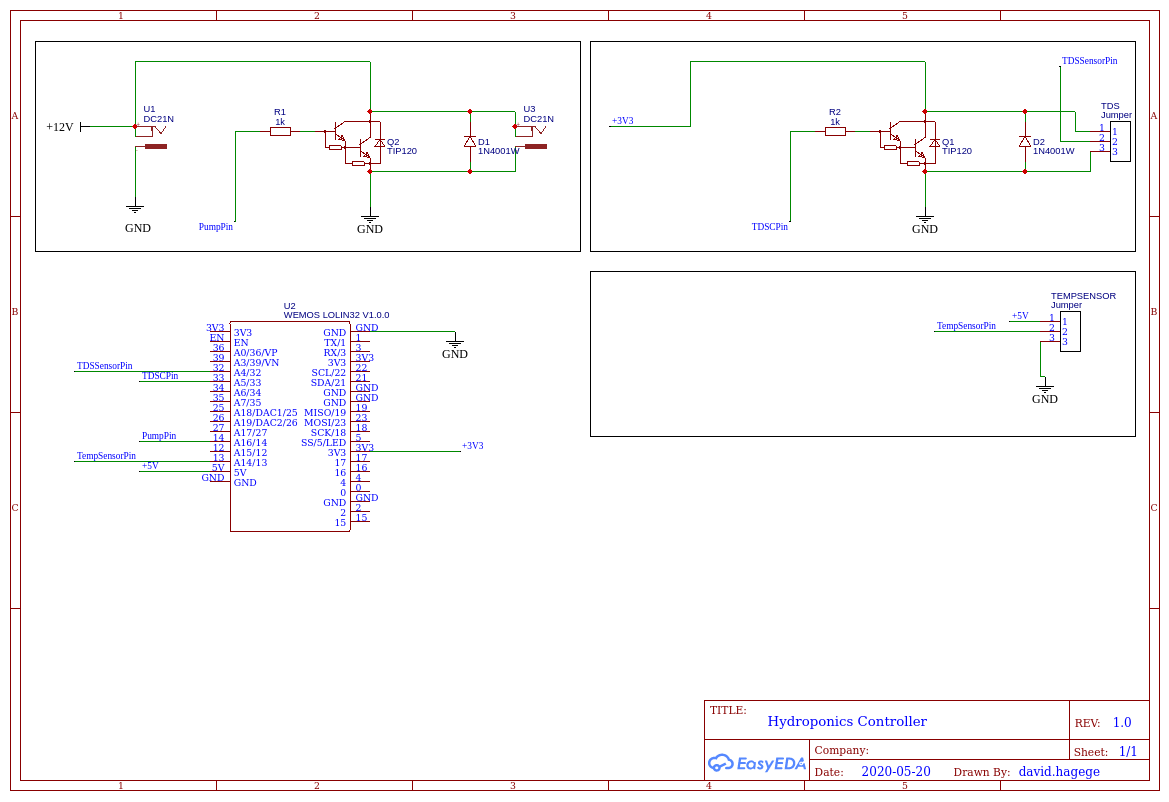
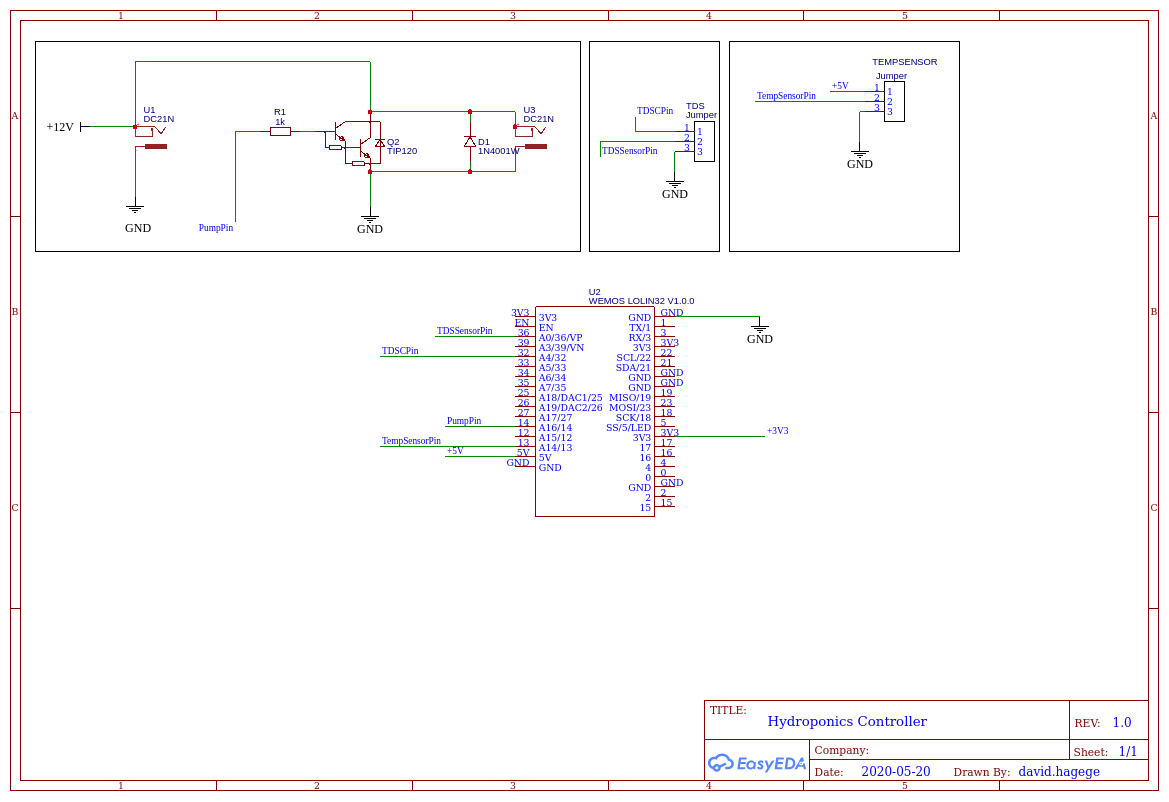
TDS code working with esp32. Removing one mosfet.

diff --git a/src/tds_meter.cpp b/src/tds_meter.cpp
@@ -8,73 +8,56 @@
 OneWire oneWire(ONE_WIRE_BUS);
 DallasTemperature sensors(&oneWire);
 
-#define TdsSensorPin 32
+#define TDS_ANALOG_GPIO ADC1_CHANNEL_0
 
-#define TdsRelayPin 33
-#define VREF 3.3 // analog reference voltage(Volt) of the ADC
-#define SCOUNT 30 // sum of sample point
-int analogBuffer[SCOUNT]; // store the analog value in the array, read from ADC
-int analogBufferTemp[SCOUNT];
-int analogBufferIndex = 0, copyIndex = 0;
-float averageVoltage = 0;
+#define TDS_ENABLE_GPIO 32
+
+#define TDS_NUM_SAMPLES 20 //(int) Number of reading to take for an average
+#define TDS_SAMPLE_PERIOD 2 //(int) Sample period (delay between samples == sample period / number of readings)
+#define TDS_VREF 1.1 //(float) Voltage reference for ADC. We should measure the actual value of each ESP32
+
+#define SAMPLE_DELAY ((TDS_SAMPLE_PERIOD / TDS_NUM_SAMPLES) * 1000)
 
 #include "tds_meter.h"
+#include <driver/adc.h>
 
 TDSMeter::TDSMeter()
 {
-    pinMode(TdsSensorPin, INPUT);
-    pinMode(TdsRelayPin, OUTPUT);
+    pinMode(TDS_ANALOG_GPIO, INPUT);
+    pinMode(TDS_ENABLE_GPIO, OUTPUT);
+
+    adc2_vref_to_gpio(GPIO_NUM_25); // expose VREF to gpio 25
+    adc1_config_width(ADC_WIDTH_BIT_12);
+    adc1_config_channel_atten(TDS_ANALOG_GPIO, ADC_ATTEN_DB_11);
     this->temperature = 0;
     this->tdsValue = 0;
 }
 
 float TDSMeter::readTemperature()
 {
-    delay(1000);
     sensors.begin();
-    delay(1000);
     sensors.requestTemperatures();
     this->temperature = sensors.getTempCByIndex(0);
+
     return this->temperature;
 }
 
-float TDSMeter::readTDSValue()
+float TDSMeter::convertToPPM(float analogReading)
 {
-    static unsigned long analogSampleTimepoint = millis();
+    float adcCompensation = 1 + (1 / 3.9); // 1/3.9 (11dB) attenuation.
+    float vPerDiv = (TDS_VREF / 4096) * adcCompensation; // Calculate the volts per division using the VREF taking account of the chosen attenuation value.
+    float averageVoltage = analogReading * vPerDiv; // Convert the ADC reading into volts
+    float compensationCoefficient = 1.0 + 0.02 * (this->temperature - 25.0); //temperature compensation formula: fFinalResult(25^C) = fFinalResult(current)/(1.0+0.02*(fTP-25.0));
+    float compensationVoltage = averageVoltage / compensationCoefficient; //temperature compensation
+    float tdsValue = (133.42 * compensationVoltage * compensationVoltage * compensationVoltage - 255.86 * compensationVoltage * compensationVoltage + 857.39 * compensationVoltage) * 0.5; //convert voltage value to tds value
 
-    turnOnTDS();
-    analogBufferIndex = 0;
-
-    while (42) {
-        if (millis() - analogSampleTimepoint > 40U) // every 100 milliseconds,read the analog value from the ADC
-        {
-            analogSampleTimepoint = millis();
-            analogBuffer[analogBufferIndex] = analogRead(TdsSensorPin); //read the analog value and store into the buffer
-            analogBufferIndex++;
-            // we have enough values
-            if (analogBufferIndex == SCOUNT) {
-                for (copyIndex = 0; copyIndex < SCOUNT; copyIndex++)
-                    analogBufferTemp[copyIndex] = analogBuffer[copyIndex];
-
-                readTemperature();
-                averageVoltage = getMedianNum(analogBufferTemp, SCOUNT) * (float)VREF / 1024.0; // read the analog value more stable by the median filtering algorithm, and convert to voltage value
-                float compensationCoefficient = 1.0 + 0.02 * (this->temperature - 25.0); //temperature compensation formula: fFinalResult(25^C) = fFinalResult(current)/(1.0+0.02*(fTP-25.0));
-                float compensationVoltage = averageVoltage / compensationCoefficient; //temperature compensation
-                this->tdsValue = (133.42 * compensationVoltage * compensationVoltage * compensationVoltage - 255.86 * compensationVoltage * compensationVoltage + 857.39 * compensationVoltage) * 0.5; //convert voltage value to tds value
-                //Serial.print("voltage:");
-                //Serial.print(averageVoltage,2);
-                //Serial.print("V ");
-                Serial.print("TDS Value:");
-                Serial.print(tdsValue, 0);
-                Serial.println("ppm");
-                turnOffTDS();
-
-                return this->tdsValue;
-            }
-        }
-    }
-
-    return 0.0f;
+    ESP_LOGI(TDS, "Volts per division = %f", vPerDiv);
+    ESP_LOGI(TDS, "Average Voltage = %f", averageVoltage);
+    ESP_LOGI(TDS, "Temperature (currently fixed, we should measure this) = %f", this->temperature);
+    ESP_LOGI(TDS, "Compensation Coefficient = %f", compensationCoefficient);
+    ESP_LOGI(TDS, "Compensation Voltge = %f", compensationVoltage);
+    ESP_LOGI(TDS, "tdsValue = %f ppm", tdsValue);
+    return tdsValue;
 }
 
 int TDSMeter::getMedianNum(int bArray[], int iFilterLen)
@@ -101,14 +84,46 @@ int TDSMeter::getMedianNum(int bArray[], int iFilterLen)
     return bTemp;
 }
 
+float TDSMeter::readTdsSensor(int numSamples, float sampleDelay)
+{
+    // Take n sensor readings every p millseconds where n is numSamples, and p is sampleDelay.
+    // Return the average sample value.
+    int bArray[numSamples] = { 0 };
+
+    for (int i = 0; i < numSamples; i++) {
+        // Read analogue value
+        int analogSample = adc1_get_raw(TDS_ANALOG_GPIO);
+        ESP_LOGI(TDS, "Read analog value %d then sleep for %f milli seconds.", analogSample, sampleDelay);
+        bArray[i] = analogSample;
+        vTaskDelay(sampleDelay / portTICK_PERIOD_MS);
+    }
+
+    float tdsMedian = getMedianNum(bArray, numSamples);
+    ESP_LOGI(TDS, "Calculated median = %f", tdsMedian);
+    return tdsMedian;
+}
+
+float TDSMeter::readTDSValue()
+{
+    turnOnTDS();
+
+    this->readTemperature();
+    float sensorReading = readTdsSensor(TDS_NUM_SAMPLES, SAMPLE_DELAY);
+    this->tdsValue = convertToPPM(sensorReading);
+
+    turnOffTDS();
+    return this->tdsValue;
+}
+
 void TDSMeter::turnOnTDS()
 {
     Serial.println("TURN ON TDS");
-    digitalWrite(TdsRelayPin, HIGH);
+    digitalWrite(TDS_ENABLE_GPIO, HIGH);
+    vTaskDelay(10000 / portTICK_PERIOD_MS);
 }
 
 void TDSMeter::turnOffTDS()
 {
     Serial.println("TURN OFF TDS");
-    digitalWrite(TdsRelayPin, LOW);
+    digitalWrite(TDS_ENABLE_GPIO, LOW);
 }

diff --git a/src/main.cpp b/src/main.cpp
@@ -97,7 +97,7 @@ void setupBlynk()
 {
     char auth[] = BLYNK_TOKEN;
     Blynk.begin(auth, ssid, password);
-    Blynk.syncAll();
+    //Blynk.syncAll();
 }
 
 void setupPump(void)
@@ -195,6 +195,11 @@ void loopTDSMeter(void* pvParameters)
     TDSMeter meter;
 
     while (42) {
+        // If the pump is currently ON wait a bit for the pump to finish before sampling
+        while (turnOn == true) {
+            Serial.println("Waiting for pump to finish before TDS testing...");
+            delay(1000);
+        }
         Serial.println("loopTDSMeter waiting...");
         meter.readTDSValue();
 
@@ -206,11 +211,6 @@ void loopTDSMeter(void* pvParameters)
 
         delay(5UL * 60UL * 60UL * 1000UL); // 5 hours wait
         //delay(1UL * 60UL * 1000UL);
-        // If the pump is currently ON wait a bit for the pump to finish before sampling
-        while (turnOn == true) {
-            Serial.println("Waiting for pump to finish before TDS testing...");
-            delay(1000);
-        }
     }
 }
 

diff --git a/include/tds_meter.h b/include/tds_meter.h
@@ -14,6 +14,8 @@ public:
 
 private:
     int getMedianNum(int bArray[], int iFilterLen);
+    float readTdsSensor(int numSamples, float sampleDelay);
+    float convertToPPM(float analogReading);
     void turnOnTDS();
     void turnOffTDS();
 };

diff --git a/README.md b/README.md
@@ -13,8 +13,8 @@ https://www.aliexpress.com/item/4000340140634.html
 1x keyestudio TDS Meter
 https://www.aliexpress.com/item/33050818416.html
 
-2x MOSFET IRF520 modules
-https://www.aliexpress.com/item/32901197755.html
+1x MOSFET D4184 modules
+https://www.aliexpress.com/item/33038728761.html
 
 1x temperature sensor
 https://www.aliexpress.com/item/4000048728075.html
